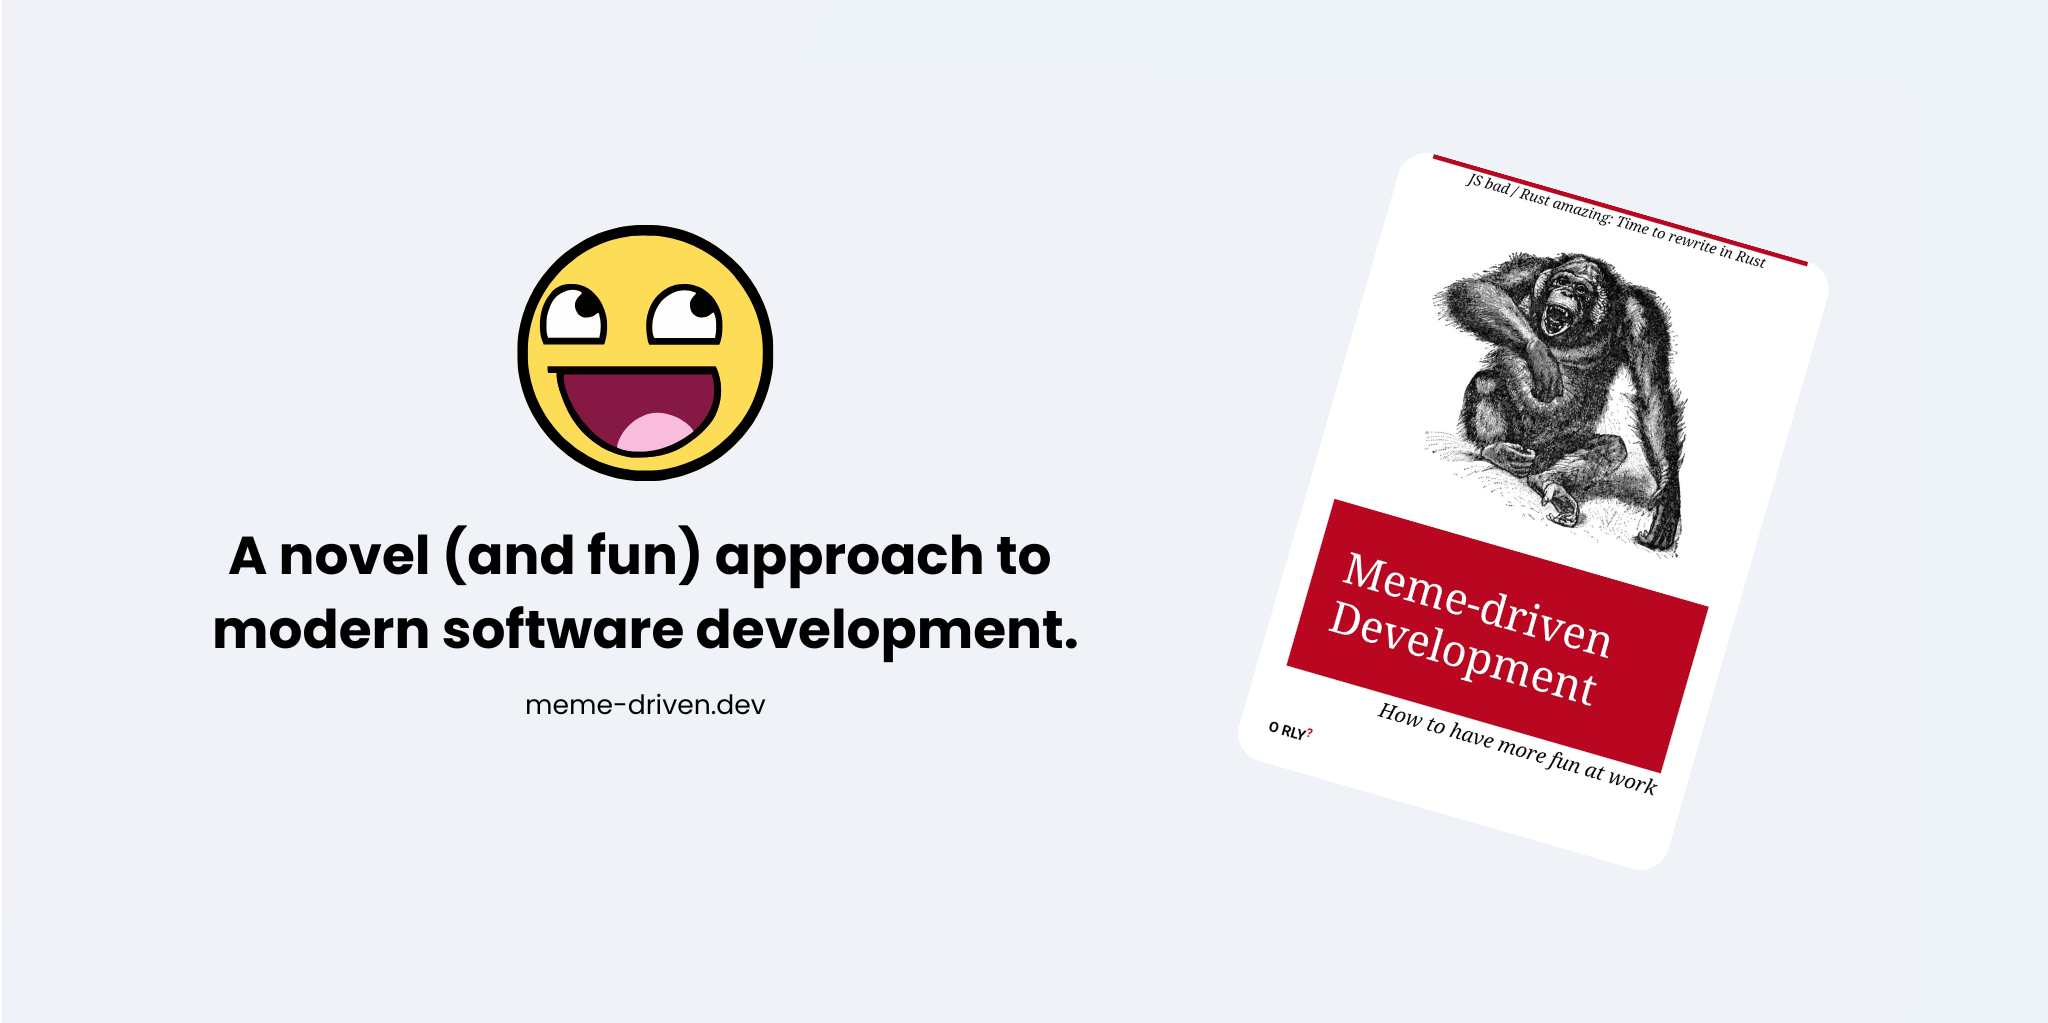
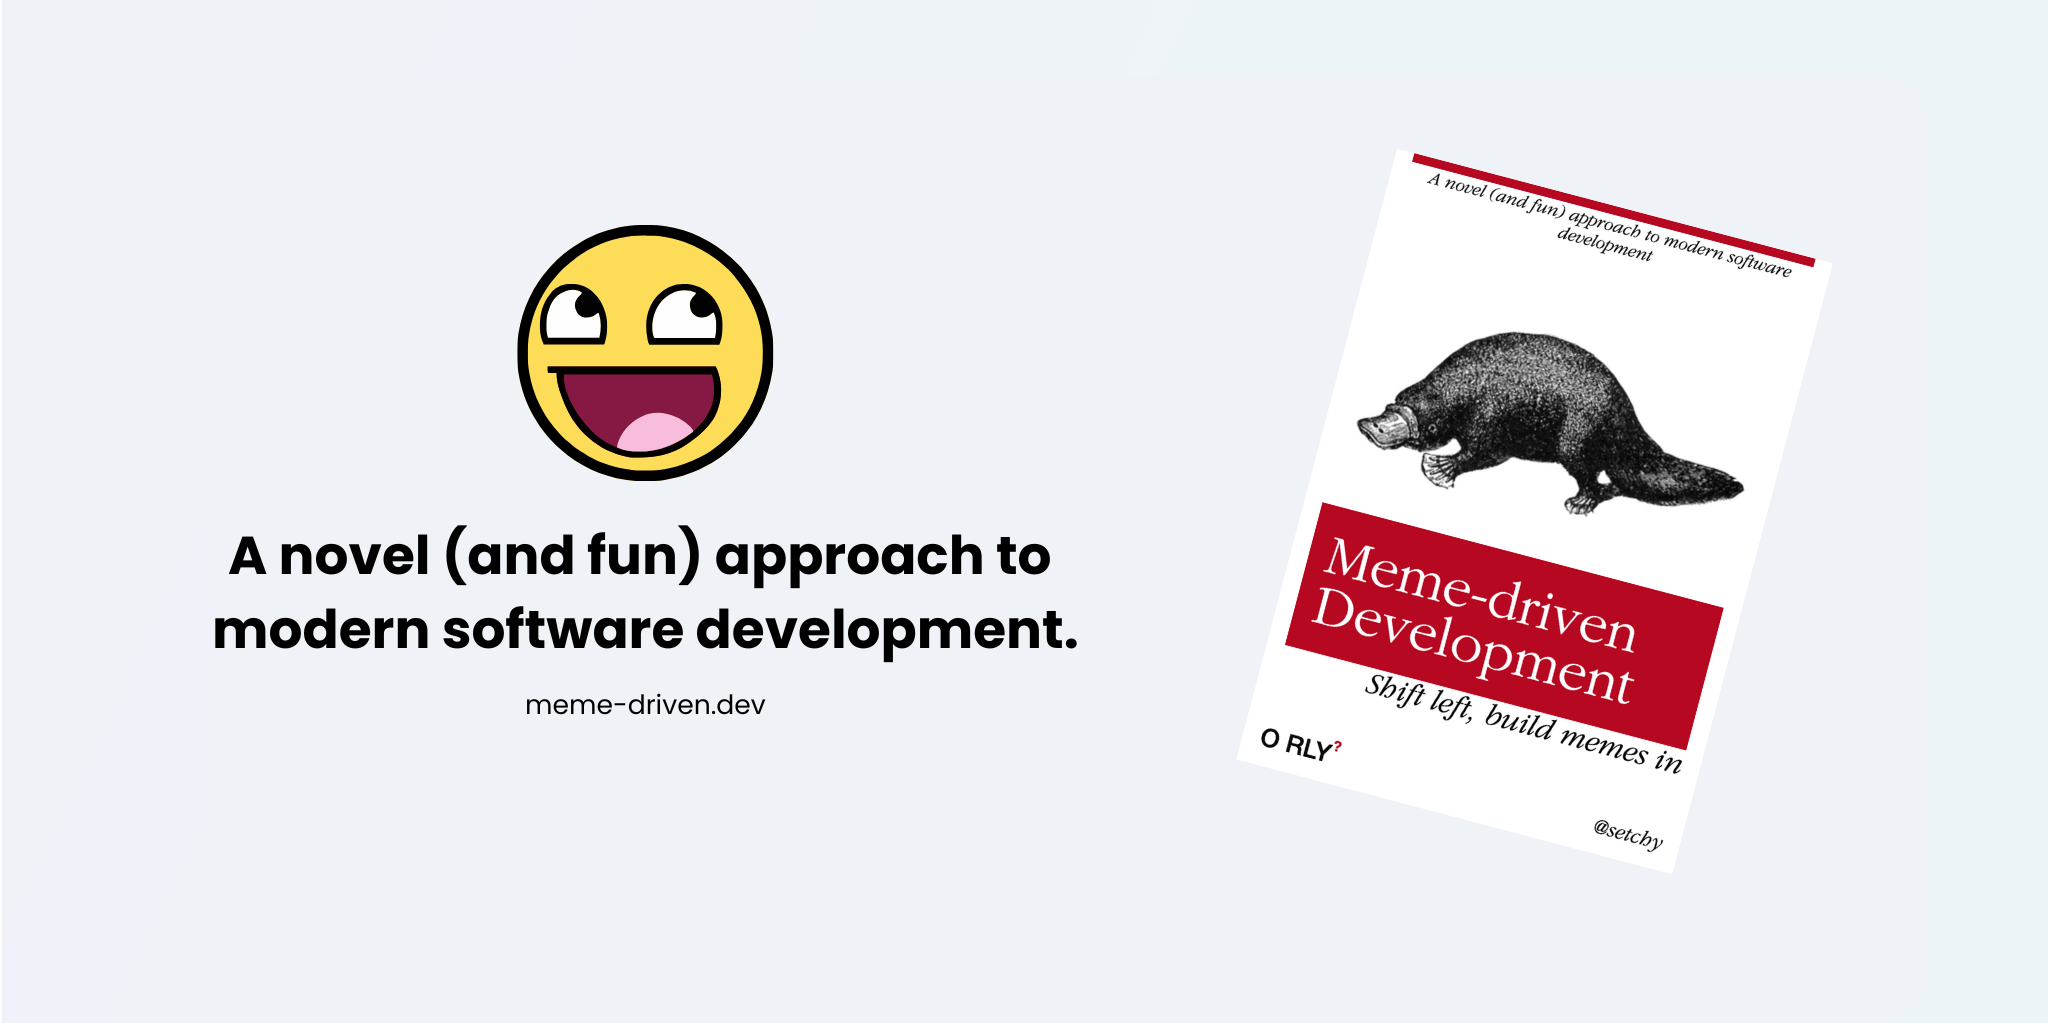
refactor: new hero image

Changed region(s): [[0.6562, 0.1515, 0.875, 0.5455], [0.625, 0.4848, 0.8438, 0.8485], [0.5938, 0.697, 0.6562, 0.7576]]

diff --git a/README.md b/README.md
@@ -21,13 +21,13 @@ To add your best practice:
 3. **Profit**: After a short review cycle your best practice will now be definitively an industry best practice.
 
 ## Attribution
-- [O'RLY Meme-Driven Development Book][reddit-book]: reddit
+- [O'RLY Books][orly-books-website]: O'RLY Book Cover Generator
 
 <!-- LINK LABELS -->
 [netlify-badge]: https://api.netlify.com/api/v1/badges/d6730e2d-6014-4a83-9f42-8b21ad34220c/deploy-status
 [netlify]: https://app.netlify.com/sites/meme-driven-dev/deploys
 
-[reddit-book]: https://www.reddit.com/r/ProgrammerHumor/comments/1gkd2bb/probablyanotsogoodidea/
+[orly-books-website]: https://orlybooks.com/
 
 [wakatime-badge]: https://wakatime.com/badge/user/2b948ae2-4be1-4020-8a57-7de60b53fe1d/project/3683a22e-647f-49a8-bc5d-9a0293258f5d.svg
 [watatime]: https://wakatime.com
